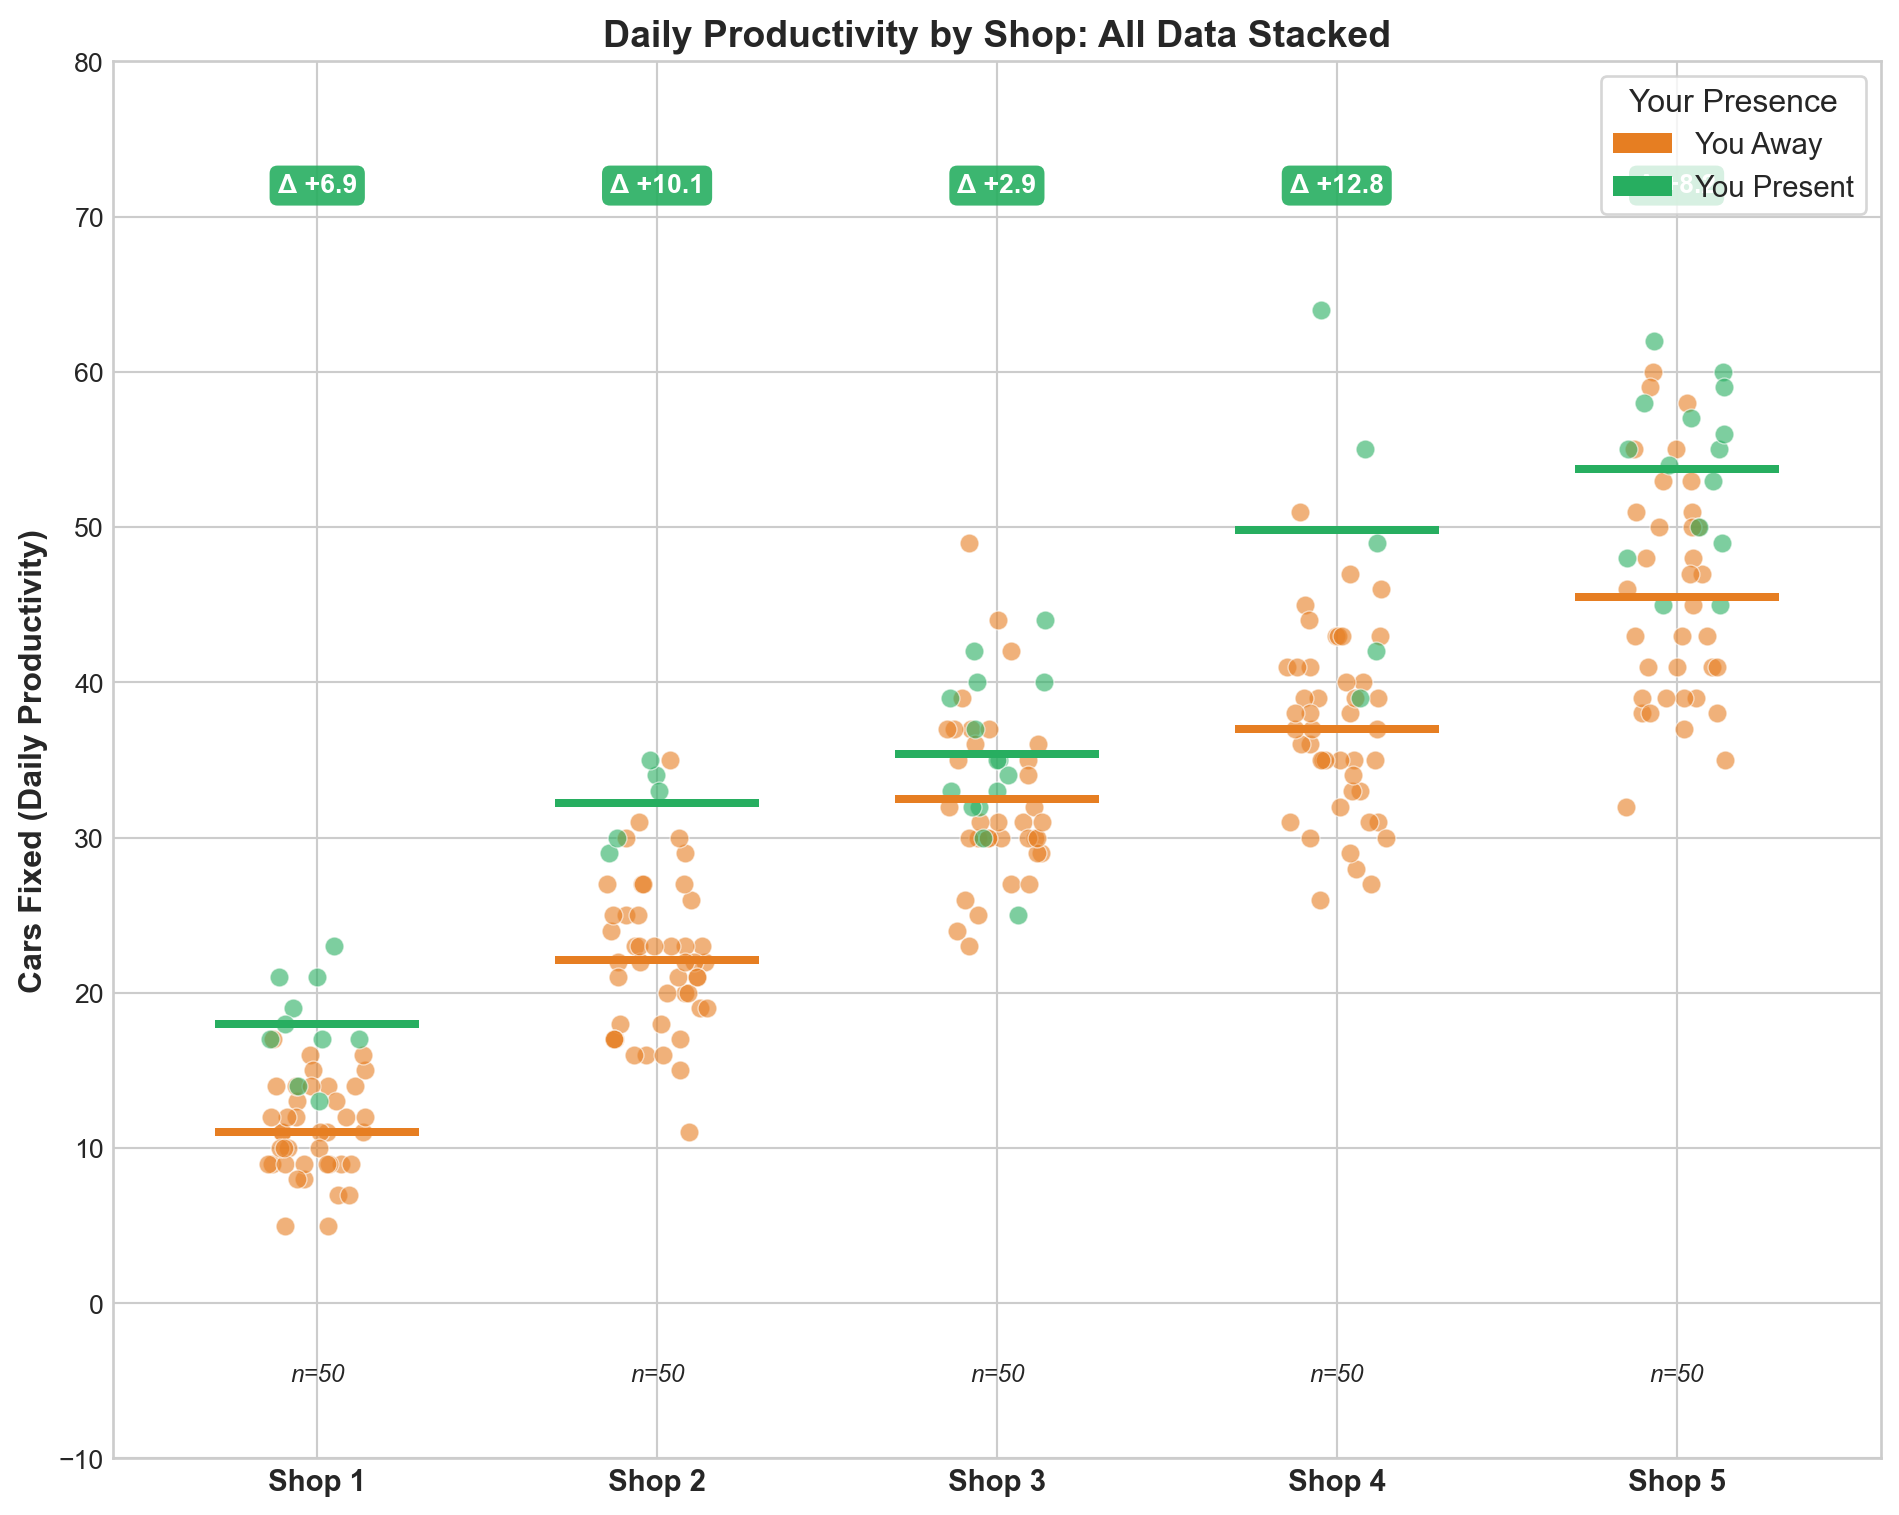
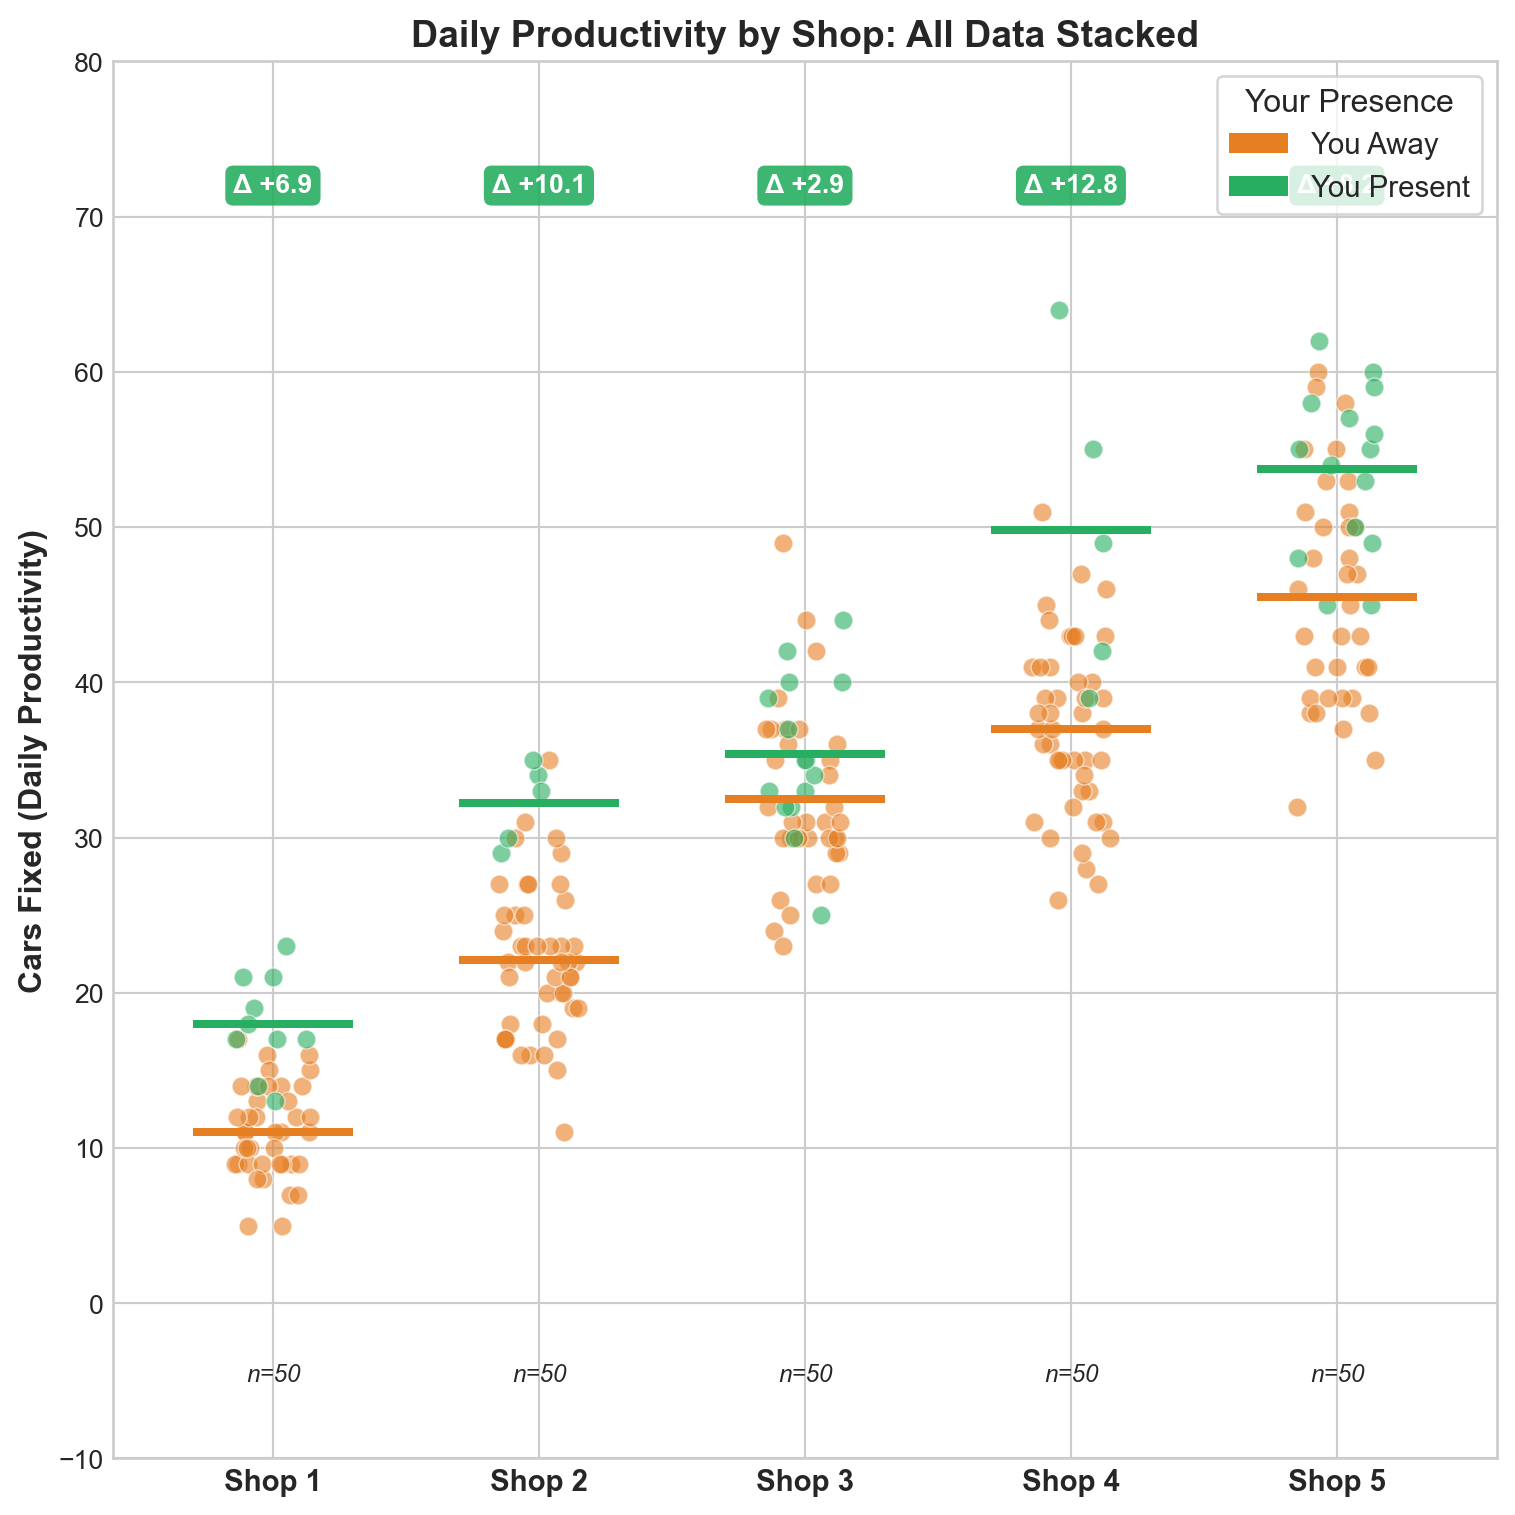
Update index.qmd and regenerate output

diff --git a/index.html b/index.html
@@ -105,11 +105,11 @@ ul.task-list li input[type="checkbox"] {
 <section id="what-the-data-shows" class="level2">
 <h2 class="anchored" data-anchor-id="what-the-data-shows">What the Data Shows</h2>
 <p>We analyzed 250 days of productivity data across your 5 shops. Here’s every single day plotted—you can see the pattern clearly:</p>
-<div id="83735104" class="cell" data-fig-height="8" data-fig-width="10" data-execution_count="2">
+<div id="a4d2ff5e" class="cell" data-fig-height="8" data-fig-width="8" data-execution_count="2">
 <div class="cell-output cell-output-display">
 <div class="quarto-figure quarto-figure-center">
 <figure class="figure">
-<p><img src="index_files/figure-html/cell-3-output-1.png" width="950" height="758" class="figure-img"></p>
+<p><img src="index_files/figure-html/cell-3-output-1.png" width="758" height="758" class="figure-img"></p>
 <figcaption>Each dot is one day. Green = you were there. Orange = you were away. Delta shows the difference in average cars fixed.</figcaption>
 </figure>
 </div>
@@ -121,7 +121,7 @@ ul.task-list li input[type="checkbox"] {
 <section id="distribution-comparison-violin-plot" class="level2">
 <h2 class="anchored" data-anchor-id="distribution-comparison-violin-plot">Distribution Comparison: Violin Plot</h2>
 <p>This violin plot reveals the full shape of productivity distributions—not just averages, but how spread out and consistent each shop performs:</p>
-<div id="ac46fe3e" class="cell" data-fig-height="6" data-fig-width="8" data-execution_count="3">
+<div id="72e489fd" class="cell" data-fig-height="6" data-fig-width="8" data-execution_count="3">
 <div class="cell-output cell-output-display">
 <div class="quarto-figure quarto-figure-center">
 <figure class="figure">
@@ -137,7 +137,7 @@ ul.task-list li input[type="checkbox"] {
 <section id="split-violin-plot-direct-comparison-by-shop" class="level2">
 <h2 class="anchored" data-anchor-id="split-violin-plot-direct-comparison-by-shop">Split Violin Plot: Direct Comparison by Shop</h2>
 <p>This split violin plot shows the productivity distribution for each shop with boss presence on opposite sides—making it easy to compare the “shape” of performance directly:</p>
-<div id="e95fa68b" class="cell" data-fig-height="8" data-fig-width="8" data-execution_count="4">
+<div id="a1ce0c62" class="cell" data-fig-height="8" data-fig-width="8" data-execution_count="4">
 <div class="cell-output cell-output-display">
 <div class="quarto-figure quarto-figure-center">
 <figure class="figure">
@@ -153,7 +153,7 @@ ul.task-list li input[type="checkbox"] {
 <section id="d-view-shop-performance-landscape" class="level2">
 <h2 class="anchored" data-anchor-id="d-view-shop-performance-landscape">3D View: Shop Performance Landscape</h2>
 <p>Here’s an interactive 3D perspective showing all three dimensions at once—Shop ID, your presence status, and cars fixed:</p>
-<div id="7ced34cf" class="cell" data-fig-height="8" data-fig-width="10" data-execution_count="5">
+<div id="4a78e98a" class="cell" data-fig-height="8" data-fig-width="10" data-execution_count="5">
 <div class="cell-output cell-output-display">
 <div class="quarto-figure quarto-figure-center">
 <figure class="figure">
@@ -169,7 +169,7 @@ ul.task-list li input[type="checkbox"] {
 <section id="the-boss-boost-effect" class="level2">
 <h2 class="anchored" data-anchor-id="the-boss-boost-effect">The “Boss Boost” Effect</h2>
 <p>Here’s the real question: <strong>How many extra cars get fixed when you’re at each shop?</strong></p>
-<div id="aee2592a" class="cell" data-fig-height="5" data-fig-width="9" data-execution_count="6">
+<div id="951a00c6" class="cell" data-fig-height="5" data-fig-width="9" data-execution_count="6">
 <div class="cell-output cell-output-display">
 <div class="quarto-figure quarto-figure-center">
 <figure class="figure">
@@ -226,7 +226,7 @@ ul.task-list li input[type="checkbox"] {
 <section id="how-confident-can-you-be" class="level2">
 <h2 class="anchored" data-anchor-id="how-confident-can-you-be">How Confident Can You Be?</h2>
 <p><strong>The honest truth:</strong> We only have 250 days of data, and you weren’t at every shop equally. Here’s what that means:</p>
-<div id="5aca1132" class="cell" data-fig-height="6" data-fig-width="6" data-execution_count="7">
+<div id="1eb19a3f" class="cell" data-fig-height="6" data-fig-width="6" data-execution_count="7">
 <div class="cell-output cell-output-display">
 <div class="quarto-figure quarto-figure-center">
 <figure class="figure">
@@ -253,7 +253,7 @@ ul.task-list li input[type="checkbox"] {
 <section id="the-money-question" class="level2">
 <h2 class="anchored" data-anchor-id="the-money-question">The Money Question 💰</h2>
 <p>Let’s say each car fixed earns you <strong>$200 in profit</strong>. Here’s what different scheduling strategies could mean for your wallet:</p>
-<div id="bd6538ce" class="cell" data-fig-height="7" data-fig-width="9" data-execution_count="8">
+<div id="4b195b39" class="cell" data-fig-height="7" data-fig-width="9" data-execution_count="8">
 <div class="cell-output cell-output-display">
 <div class="quarto-figure quarto-figure-center">
 <figure class="figure">
@@ -266,7 +266,7 @@ ul.task-list li input[type="checkbox"] {
 <section id="long-term-profit-projection" class="level3">
 <h3 class="anchored" data-anchor-id="long-term-profit-projection">Long-Term Profit Projection 📈</h3>
 <p>What do these strategies look like over a full year? Here’s how your profits compound:</p>
-<div id="8f2b1933" class="cell" data-fig-height="5" data-fig-width="7" data-execution_count="9">
+<div id="2763dc39" class="cell" data-fig-height="5" data-fig-width="7" data-execution_count="9">
 <div class="cell-output cell-output-display">
 <div class="quarto-figure quarto-figure-center">
 <figure class="figure">
@@ -390,7 +390,7 @@ ul.task-list li input[type="checkbox"] {
 </section>
 <section id="one-final-chart-boss-presence-delta-by-shop" class="level3">
 <h3 class="anchored" data-anchor-id="one-final-chart-boss-presence-delta-by-shop">One Final Chart: Boss Presence Delta by Shop</h3>
-<div id="06518c2a" class="cell" data-fig-height="16" data-fig-width="6" data-execution_count="10">
+<div id="1fcd1701" class="cell" data-fig-height="16" data-fig-width="6" data-execution_count="10">
 <div class="cell-output cell-output-display">
 <div class="quarto-figure quarto-figure-center">
 <figure class="figure">
